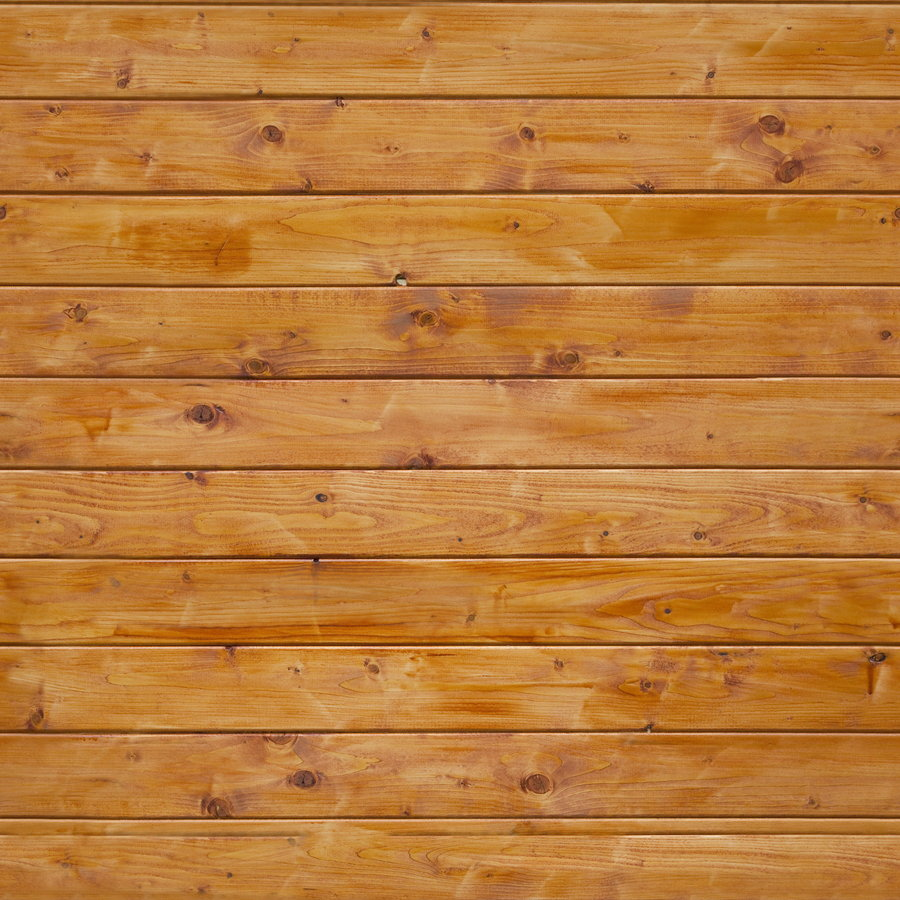
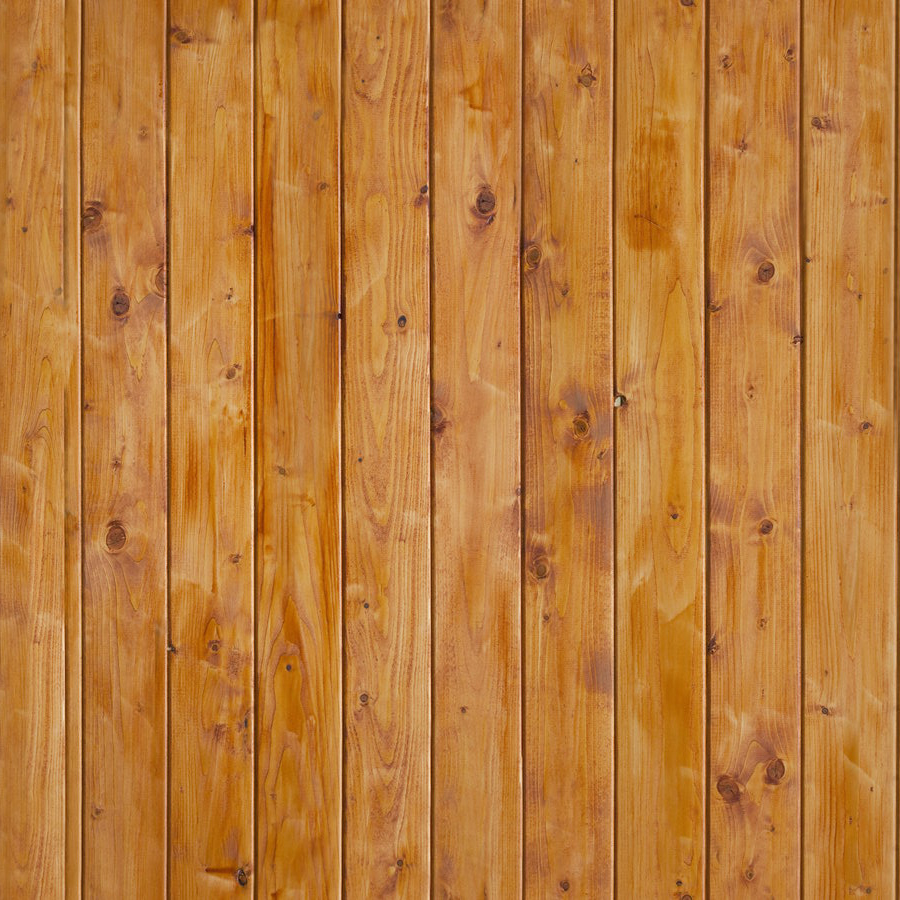
Added the floorWall, styling.

diff --git a/client/app/about-us/about-us.controller.js b/client/app/about-us/about-us.controller.js
@@ -57,7 +57,7 @@ angular.module('theatreProjApp')
 	/* The style object for the floor. */
 	$scope.floorStyle = function () {
 		var w = $scope.r*5;
-		var h = $scope.r*4;
+		var h = $scope.cubeLength + zShift*2;
 		var ret = {
 			width: w + 'px',
 			height: h + 'px',
@@ -65,8 +65,23 @@ angular.module('theatreProjApp')
 		};
 		ret.transform = 'translateY(' + $scope.cubeLength*1.1 + 'px)'; // move it to floor level
 		ret.transform += ' translateX(' + ($scope.cubeLength/2 - w/2) + 'px)'; // centre it horizontally
-		ret.transform += ' translateZ(-' + ($scope.cubeLength/2 + zShift) + 'px)'; // move it back into the screen
+		ret.transform += ' translateZ(-' + (h/2) + 'px)'; // move it back into the screen
 		ret.transform += ' rotateX(90deg)'; // rotate it so it's flat
+		return ret;
+	};
+
+	/* The style object for the front wall at the front end of the floor. */
+	$scope.floorWallStyle = function () {
+		var w = $scope.r*5;
+		var h = $scope.r;
+		var ret = {
+			width: w + 'px',
+			height: h + 'px',
+			'transform-origin': 'top center'
+		};
+		ret.transform = 'translateY(' + $scope.cubeLength*1.1 + 'px)'; // move it to floor level
+		ret.transform += ' translateX(' + ($scope.cubeLength/2 - w/2) + 'px)'; // centre it horizontally
+		ret.transform += ' translateZ(' + ($scope.cubeLength/2 + zShift) + 'px)'; // move it out to the front edge of the floor
 		return ret;
 	};
 
@@ -243,12 +258,11 @@ angular.module('theatreProjApp')
 		switch (dataType) {
 			case 'info':
 			ret.width = ($scope.cubeLength*4) + 'px';
-			ret.height = ($scope.cubeLength*1) + 'px';
+			ret.height = ($scope.cubeLength*0.3) + 'px';
 			ret.transform = 'translateX(-' + ($scope.cubeLength*1.5) + 'px)'; // centre it horizontally
 			if (active) {
 				ret.opacity = '1';
-				ret.transform += ' translateZ(' + (len*3) + 'px)'; // move it forward a lot
-				ret.transform += ' translateY(' + (len*0.5) + 'px)'; // move it down a bit
+				ret.transform += ' translateZ(' + (len*6.3) + 'px)'; // move it forward a lot
 				ret.transform += ' rotateX(10deg)'; // rotate it back a bit
 			} else {
 				ret.opacity = '0';

diff --git a/client/app/about-us/about-us.scss b/client/app/about-us/about-us.scss
@@ -36,9 +36,8 @@ $panel-dark-shade: rgba(0,0,0,0.5);
 .floor {
 	display: block;
 	position: absolute;
-	// background: url(../assets/images/wood_floor.jpg);
-	background: black;
-	background-size: 30% 20%;
+	background: url(../assets/images/wood_floor.jpg);
+	background-size: 10% 20%;
 	background-repeat: repeat;
 	@include transform-style(preserve-3d);
 
@@ -50,7 +49,7 @@ $panel-dark-shade: rgba(0,0,0,0.5);
 		opacity: 1;
 		width: 100%;
 		height: 100%;
-		background-image: linear-gradient(to bottom, transparent 20%, $wall-dark-shade 100%);
+		background: rgba(0,0,0,0.9);
 	}
 }
 
@@ -215,6 +214,10 @@ $panel-dark-shade: rgba(0,0,0,0.5);
 	}
 }
 
-.front, .back, .left, .right, .back-wall, .left-curtain, .right-curtain {
-	-webkit-box-reflect: below 0 -webkit-gradient(linear, left top, left bottom, from(transparent), color-stop(60%, transparent), to(RGBA(0, 0, 0, 0.6)));
+.front, .back, .left, .right, .back-wall, .info {
+	-webkit-box-reflect: below 0 -webkit-gradient(linear, left top, left bottom, from(transparent), color-stop(60%, transparent), to(RGBA(0, 0, 0, 0.4)));
+}
+
+.left-curtain, .right-curtain {
+	-webkit-box-reflect: below 0 -webkit-gradient(linear, left top, left bottom, from(transparent), color-stop(92%, transparent), to(RGBA(0, 0, 0, 0.4)));
 }

diff --git a/client/app/about-us/about-us.html b/client/app/about-us/about-us.html
@@ -2,6 +2,7 @@
 	<div class="carousel-container" ng-style="carouselContainerStyle()">
 		<div class="carousel-translate" ng-style="carouselTranslateStyle()">
 			<figure class="floor" ng-style="floorStyle()"></figure>
+			<figure class="floor" ng-style="floorWallStyle()"></figure>
 			<figure class="back-wall" ng-style="backWallStyle()"></figure>
 			<figure class="left-curtain" ng-style="curtainStyle(true)"></figure>
 			<figure class="right-curtain" ng-style="curtainStyle(false)"></figure>
@@ -16,7 +17,7 @@
 					<figure ng-style="panelStyle(cube, 'right', $index)" class="carousel-panel right" ng-class="getActivityClass($index)"></figure>
 
 					<figure ng-style="dataStyle(cube, 'info', $index)" class="carousel-data info" ng-class="getActivityClass($index)">
-						<h2>{{cube.group.info}}</h2>
+						<h4>{{cube.group.info}}</h4>
 					</figure>
 				</div>
 			</div>
